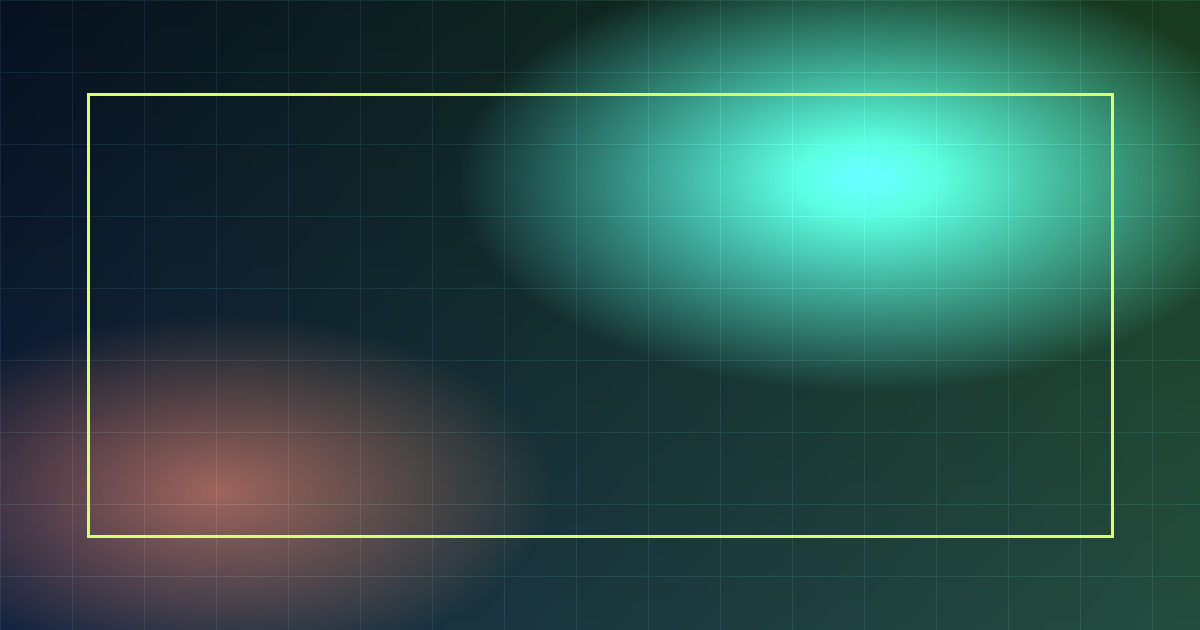
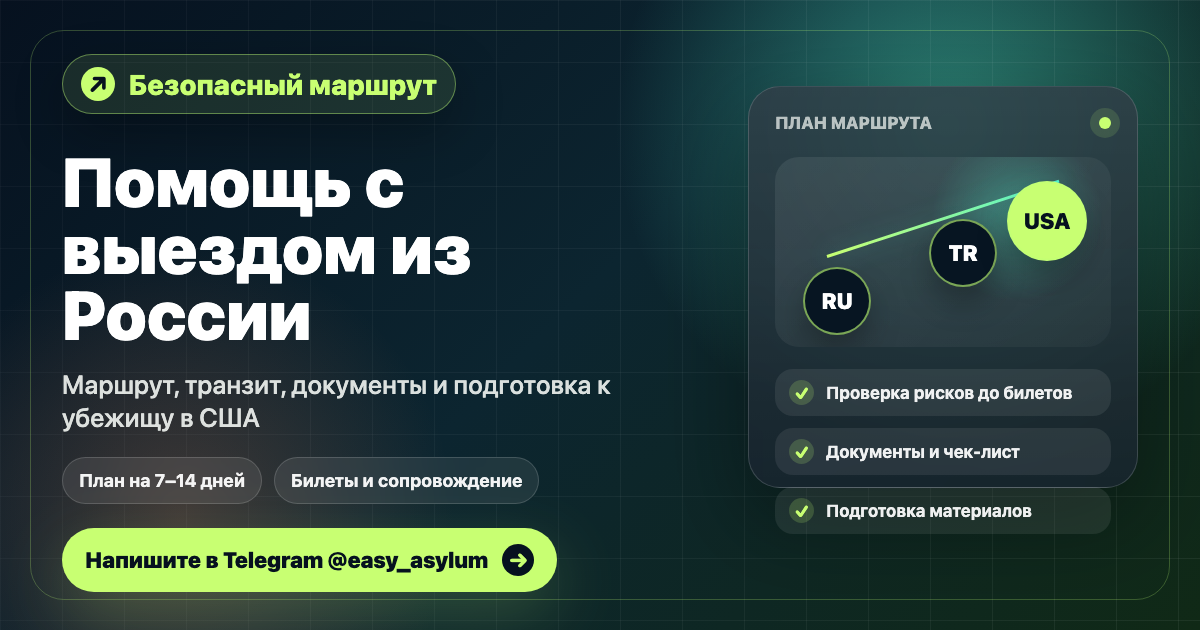
Add files via upload

diff --git a/index.html b/index.html
@@ -18,10 +18,12 @@
   <meta property="og:image" content="https://easy-asylum.com/assets/og-image.png" />
   <meta property="og:image:width" content="1200" />
   <meta property="og:image:height" content="630" />
+  <meta property="og:image:alt" content="Помощь с выездом из России: маршрут, транзит, документы и подготовка к убежищу в США" />
   <meta name="twitter:card" content="summary_large_image" />
   <meta name="twitter:title" content="Помощь с выездом из России — маршрут, документы, транзит и подготовка" />
   <meta name="twitter:description" content="Помогаем разобрать ситуацию, выбрать реалистичный маршрут выезда из России, подготовить документы, чек-лист и план действий на 7–14 дней. Без ложных гарантий и опасных обещаний." />
   <meta name="twitter:image" content="https://easy-asylum.com/assets/og-image.png" />
+  <meta name="twitter:image:alt" content="Помощь с выездом из России: маршрут, транзит, документы и подготовка к убежищу в США" />
   <link rel="icon" href="assets/favicon.svg" type="image/svg+xml" />
   <link rel="preconnect" href="https://fonts.googleapis.com">
   <link rel="preconnect" href="https://fonts.gstatic.com" crossorigin>
